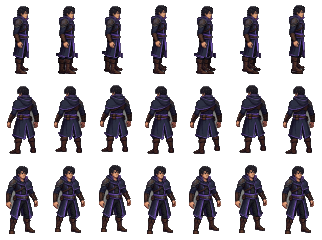
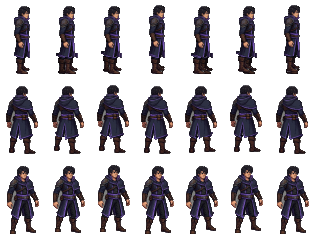
Turn the three-quarter views both ways
The source illustrations are three-quarter drawings, not dead-on ones -- the
figure is already turned a little. The front and back rows were pinned so they
never mirrored, which threw that away: a hero walking down-left and one walking
down-right struck exactly the same pose. Mirroring them turns one drawing into
two, so up and down each get a left-ish and a right-ish version, and the roster
covers six distinct headings instead of four.

Getting the DIRECTION of the turn right mattered more than the mirroring, since
inverting it would have every hero facing away from where he walks. The
silhouette says one thing and the art says the other: hair mass drags the head's
centroid left, so measuring the outline suggested the front view turns
screen-left. Measured on the skin pixels instead, the face sits 1.4 to 2.9px
RIGHT of the head's centre on every hero -- turned the same way the profile
faces.

The back view is genuinely the odd one out, and necessarily so. It is the same
body turn seen from the other side, so the cheek that peeks out lands on the far
side: 1.7 to 4.4px LEFT of centre. Drawn as-is it read as walking away up-and-
left while the front read down-and-right. It is mirrored once in the builder
rather than special-cased at draw time, so all three views share one canonical
facing and a single rule mirrors them all. Verified on the packed sheets: every
measurable face now sits right of centre.
[…]

diff --git a/src/gfx/spriteCatalog.js b/src/gfx/spriteCatalog.js
@@ -247,6 +247,7 @@ registerActorSprite('warrior', {
   sheet: 'assets/actors/hi/warrior.png',
   frameWidth: 46, frameHeight: 80, columns: 7,
   anchorX: 22, anchorY: 74,
+  threeQuarter: true,
   logicalHeight: 26,
   scale: (HERO_WORLD_H / 68) / ACTOR_ZOOM,
   shadowRadius: 8,
@@ -255,8 +256,9 @@ registerActorSprite('warrior', {
 
 registerActorSprite('mage', {
   sheet: 'assets/actors/hi/mage.png',
-  frameWidth: 46, frameHeight: 80, columns: 7,
+  frameWidth: 45, frameHeight: 80, columns: 7,
   anchorX: 22, anchorY: 74,
+  threeQuarter: true,
   logicalHeight: 26,
   scale: (HERO_WORLD_H / 68) / ACTOR_ZOOM,
   shadowRadius: 8,
@@ -265,8 +267,9 @@ registerActorSprite('mage', {
 
 registerActorSprite('rogue', {
   sheet: 'assets/actors/hi/rogue.png',
-  frameWidth: 45, frameHeight: 80, columns: 7,
-  anchorX: 21, anchorY: 74,
+  frameWidth: 44, frameHeight: 80, columns: 7,
+  anchorX: 22, anchorY: 74,
+  threeQuarter: true,
   logicalHeight: 26,
   scale: (HERO_WORLD_H / 68) / ACTOR_ZOOM,
   shadowRadius: 8,
@@ -276,7 +279,8 @@ registerActorSprite('rogue', {
 registerActorSprite('ranger', {
   sheet: 'assets/actors/hi/ranger.png',
   frameWidth: 44, frameHeight: 80, columns: 7,
-  anchorX: 22, anchorY: 74,
+  anchorX: 21, anchorY: 74,
+  threeQuarter: true,
   logicalHeight: 26,
   scale: (HERO_WORLD_H / 68) / ACTOR_ZOOM,
   shadowRadius: 8,
@@ -287,6 +291,7 @@ registerActorSprite('paladin', {
   sheet: 'assets/actors/hi/paladin.png',
   frameWidth: 46, frameHeight: 80, columns: 7,
   anchorX: 22, anchorY: 74,
+  threeQuarter: true,
   logicalHeight: 26,
   scale: (HERO_WORLD_H / 68) / ACTOR_ZOOM,
   shadowRadius: 8,
@@ -297,6 +302,7 @@ registerActorSprite('berserker', {
   sheet: 'assets/actors/hi/berserker.png',
   frameWidth: 46, frameHeight: 80, columns: 7,
   anchorX: 22, anchorY: 74,
+  threeQuarter: true,
   logicalHeight: 26,
   scale: (HERO_WORLD_H / 68) / ACTOR_ZOOM,
   shadowRadius: 8,
@@ -307,6 +313,7 @@ registerActorSprite('summoner', {
   sheet: 'assets/actors/hi/summoner.png',
   frameWidth: 45, frameHeight: 80, columns: 7,
   anchorX: 22, anchorY: 74,
+  threeQuarter: true,
   logicalHeight: 26,
   scale: (HERO_WORLD_H / 68) / ACTOR_ZOOM,
   shadowRadius: 8,

diff --git a/src/scenes/town.js b/src/scenes/town.js
@@ -143,11 +143,14 @@ export class TownScene {
       this._tryMove(ax.x * spd * dt, 0);
       this._tryMove(0, ax.y * spd * dt);
       if (Math.abs(ax.x) > FACE_DEADZONE) this.facing = ax.x > 0 ? 1 : -1;
-      // Which way he is turned relative to the camera. Vertical intent wins over
-      // horizontal so a mostly-up diagonal shows his back rather than his side;
-      // `facing` still carries left/right for the side view. This persists when
-      // he stops, so he keeps facing the way he was walking.
-      this.dir = Math.abs(ax.y) > Math.abs(ax.x)
+      // Which way he is turned relative to the camera. Vertical intent wins
+      // ties as well as contests, because a 45-degree diagonal is exactly what
+      // the three-quarter art is drawn for -- a pure profile there reads as
+      // walking sideways along a diagonal. `facing` still carries left/right,
+      // and now mirrors the three-quarter views too, so up and down each have a
+      // left-ish and a right-ish pose. This persists when he stops, so he keeps
+      // facing the way he was walking.
+      this.dir = Math.abs(ax.y) >= Math.abs(ax.x)
         ? (ax.y < 0 ? 'up' : 'down') : 'side';
       this.walkT += dt;
       if (Math.random() < dt * 4) this.particles.dust(this.px, this.py, 1);

diff --git a/src/scenes/potionshop.js b/src/scenes/potionshop.js
@@ -78,11 +78,14 @@ export class PotionShopScene {
       this._tryMove(ax.x * 78 * dt, 0);
       this._tryMove(0, ax.y * 78 * dt);
       if (Math.abs(ax.x) > FACE_DEADZONE) this.facing = ax.x > 0 ? 1 : -1;
-      // Which way he is turned relative to the camera. Vertical intent wins over
-      // horizontal so a mostly-up diagonal shows his back rather than his side;
-      // `facing` still carries left/right for the side view. This persists when
-      // he stops, so he keeps facing the way he was walking.
-      this.dir = Math.abs(ax.y) > Math.abs(ax.x)
+      // Which way he is turned relative to the camera. Vertical intent wins
+      // ties as well as contests, because a 45-degree diagonal is exactly what
+      // the three-quarter art is drawn for -- a pure profile there reads as
+      // walking sideways along a diagonal. `facing` still carries left/right,
+      // and now mirrors the three-quarter views too, so up and down each have a
+      // left-ish and a right-ish pose. This persists when he stops, so he keeps
+      // facing the way he was walking.
+      this.dir = Math.abs(ax.y) >= Math.abs(ax.x)
         ? (ax.y < 0 ? 'up' : 'down') : 'side';
       this.walkT += dt;
     }

diff --git a/src/scenes/weaponshop.js b/src/scenes/weaponshop.js
@@ -70,11 +70,14 @@ export class WeaponShopScene {
       this._tryMove(ax.x * 78 * dt, 0);
       this._tryMove(0, ax.y * 78 * dt);
       if (Math.abs(ax.x) > FACE_DEADZONE) this.facing = ax.x > 0 ? 1 : -1;
-      // Which way he is turned relative to the camera. Vertical intent wins over
-      // horizontal so a mostly-up diagonal shows his back rather than his side;
-      // `facing` still carries left/right for the side view. This persists when
-      // he stops, so he keeps facing the way he was walking.
-      this.dir = Math.abs(ax.y) > Math.abs(ax.x)
+      // Which way he is turned relative to the camera. Vertical intent wins
+      // ties as well as contests, because a 45-degree diagonal is exactly what
+      // the three-quarter art is drawn for -- a pure profile there reads as
+      // walking sideways along a diagonal. `facing` still carries left/right,
+      // and now mirrors the three-quarter views too, so up and down each have a
+      // left-ish and a right-ish pose. This persists when he stops, so he keeps
+      // facing the way he was walking.
+      this.dir = Math.abs(ax.y) >= Math.abs(ax.x)
         ? (ax.y < 0 ? 'up' : 'down') : 'side';
       this.walkT += dt;
     }

diff --git a/src/scenes/library.js b/src/scenes/library.js
@@ -139,11 +139,14 @@ export class LibraryScene {
       this._tryMove(ax.x * 78 * dt, 0);
       this._tryMove(0, ax.y * 78 * dt);
       if (Math.abs(ax.x) > FACE_DEADZONE) this.facing = ax.x > 0 ? 1 : -1;
-      // Which way he is turned relative to the camera. Vertical intent wins over
-      // horizontal so a mostly-up diagonal shows his back rather than his side;
-      // `facing` still carries left/right for the side view. This persists when
-      // he stops, so he keeps facing the way he was walking.
-      this.dir = Math.abs(ax.y) > Math.abs(ax.x)
+      // Which way he is turned relative to the camera. Vertical intent wins
+      // ties as well as contests, because a 45-degree diagonal is exactly what
+      // the three-quarter art is drawn for -- a pure profile there reads as
+      // walking sideways along a diagonal. `facing` still carries left/right,
+      // and now mirrors the three-quarter views too, so up and down each have a
+      // left-ish and a right-ish pose. This persists when he stops, so he keeps
+      // facing the way he was walking.
+      this.dir = Math.abs(ax.y) >= Math.abs(ax.x)
         ? (ax.y < 0 ? 'up' : 'down') : 'side';
       this.walkT += dt;
     }

diff --git a/src/scenes/house.js b/src/scenes/house.js
@@ -78,11 +78,14 @@ export class HouseScene {
       this._tryMove(ax.x * 78 * dt, 0);
       this._tryMove(0, ax.y * 78 * dt);
       if (Math.abs(ax.x) > FACE_DEADZONE) this.facing = ax.x > 0 ? 1 : -1;
-      // Which way he is turned relative to the camera. Vertical intent wins over
-      // horizontal so a mostly-up diagonal shows his back rather than his side;
-      // `facing` still carries left/right for the side view. This persists when
-      // he stops, so he keeps facing the way he was walking.
-      this.dir = Math.abs(ax.y) > Math.abs(ax.x)
+      // Which way he is turned relative to the camera. Vertical intent wins
+      // ties as well as contests, because a 45-degree diagonal is exactly what
+      // the three-quarter art is drawn for -- a pure profile there reads as
+      // walking sideways along a diagonal. `facing` still carries left/right,
+      // and now mirrors the three-quarter views too, so up and down each have a
+      // left-ish and a right-ish pose. This persists when he stops, so he keeps
+      // facing the way he was walking.
+      this.dir = Math.abs(ax.y) >= Math.abs(ax.x)
         ? (ax.y < 0 ? 'up' : 'down') : 'side';
       this.walkT += dt;
     }

diff --git a/src/gfx/sprites.js b/src/gfx/sprites.js
@@ -380,9 +380,14 @@ export function drawSpriteActor(g, a, cfg) {
   const anchor = anchorOf(cfg);
   const rect = frameRect(cfg, picked.frame, sheet.img);
   const scale = (cfg.scale || 1) * (a.scale || 1);
-  // A back or front view is authored facing the camera, not sideways, so
-  // mirroring it would be meaningless at best and wrong at worst.
-  const flip = a.facing < 0 && !picked.vertical;
+  // Whether the vertical views may be mirrored depends on how they were drawn.
+  // A dead-on front view gains nothing from it and can lose an asymmetric
+  // detail, so it is off by default. Art drawn in THREE-QUARTER, where the
+  // figure is already turned a little, is the opposite case: mirroring is the
+  // whole point, because it turns a single drawing into a left-ish and a
+  // right-ish pose. Such a sheet opts in with `threeQuarter`, and every view on
+  // it must be authored facing the same way -- see the note in spriteCatalog.
+  const flip = a.facing < 0 && (!picked.vertical || !!cfg.threeQuarter);
 
   const gx = Math.round(a.x);
   const gy = Math.round(a.y);

diff --git a/tests/hero-sheets.test.js b/tests/hero-sheets.test.js
@@ -81,6 +81,14 @@ test('every hero carries its own art for walking toward and away', async () => {
     for (const name of ['walkUp', 'walkDown', 'idleUp', 'idleDown']) {
       assert.ok(anims[name], `${id} has no ${name}`);
     }
+    // The vertical views are three-quarter drawings, already turned a little,
+    // so they are mirrored by `facing` to give a left-ish and a right-ish pose.
+    // Without this flag the engine leaves them unmirrored and every hero walks
+    // the same way whichever diagonal he takes -- which looks almost right, and
+    // is therefore easy to miss.
+    assert.equal(sprites[id].threeQuarter, true,
+      `${id} does not declare threeQuarter, so its 3/4 views will not mirror`);
+
     // The three views must not overlap: each frame belongs to exactly one.
     const seen = new Set();
     for (const anim of Object.values(anims)) {

diff --git a/tools/build_hero_directions.py b/tools/build_hero_directions.py
@@ -223,7 +223,26 @@ def build(hero):
     src = {'down': f'{SRC}/{hero}_front.png',
            'side': f'{SRC}/{hero}_side.png',
            'up':   f'{SRC}/{hero}_back.png'}
-    art = {d: np.array(Image.open(p).convert('RGBA')) for d, p in src.items()}
+    art = {}
+    for d, path in src.items():
+        a = np.array(Image.open(path).convert('RGBA'))
+        # Every view is packed facing the SAME way, so one mirror rule serves all
+        # three and the game can turn a hero left or right without a second sheet.
+        #
+        # The profile and the front view already agree: measured on the face
+        # pixels rather than the silhouette, the front view's face sits 1.4 to
+        # 2.9px right of the head's centre on every hero, turned the same way the
+        # profile faces. (The silhouette says the opposite -- hair mass drags the
+        # head's centroid the other way -- which is why this is measured on skin.)
+        #
+        # The back view is the odd one out, and necessarily so. It is the same
+        # body turn seen from behind, so the cheek that peeks out lands on the
+        # far side: 1.7 to 4.4px LEFT of centre. Drawn as-is it would read as
+        # walking away up-and-left while the front read down-and-right. So it is
+        # mirrored once, here, rather than special-cased at draw time.
+        if d == 'up':
+            a = a[:, ::-1].copy()
+        art[d] = a
     hip = int(next(iter(art.values())).shape[0] * HIP)
     hem = max(hem_row(a, hip) for a in art.values())        # one hem per hero
     pad = STRIDE + 3
